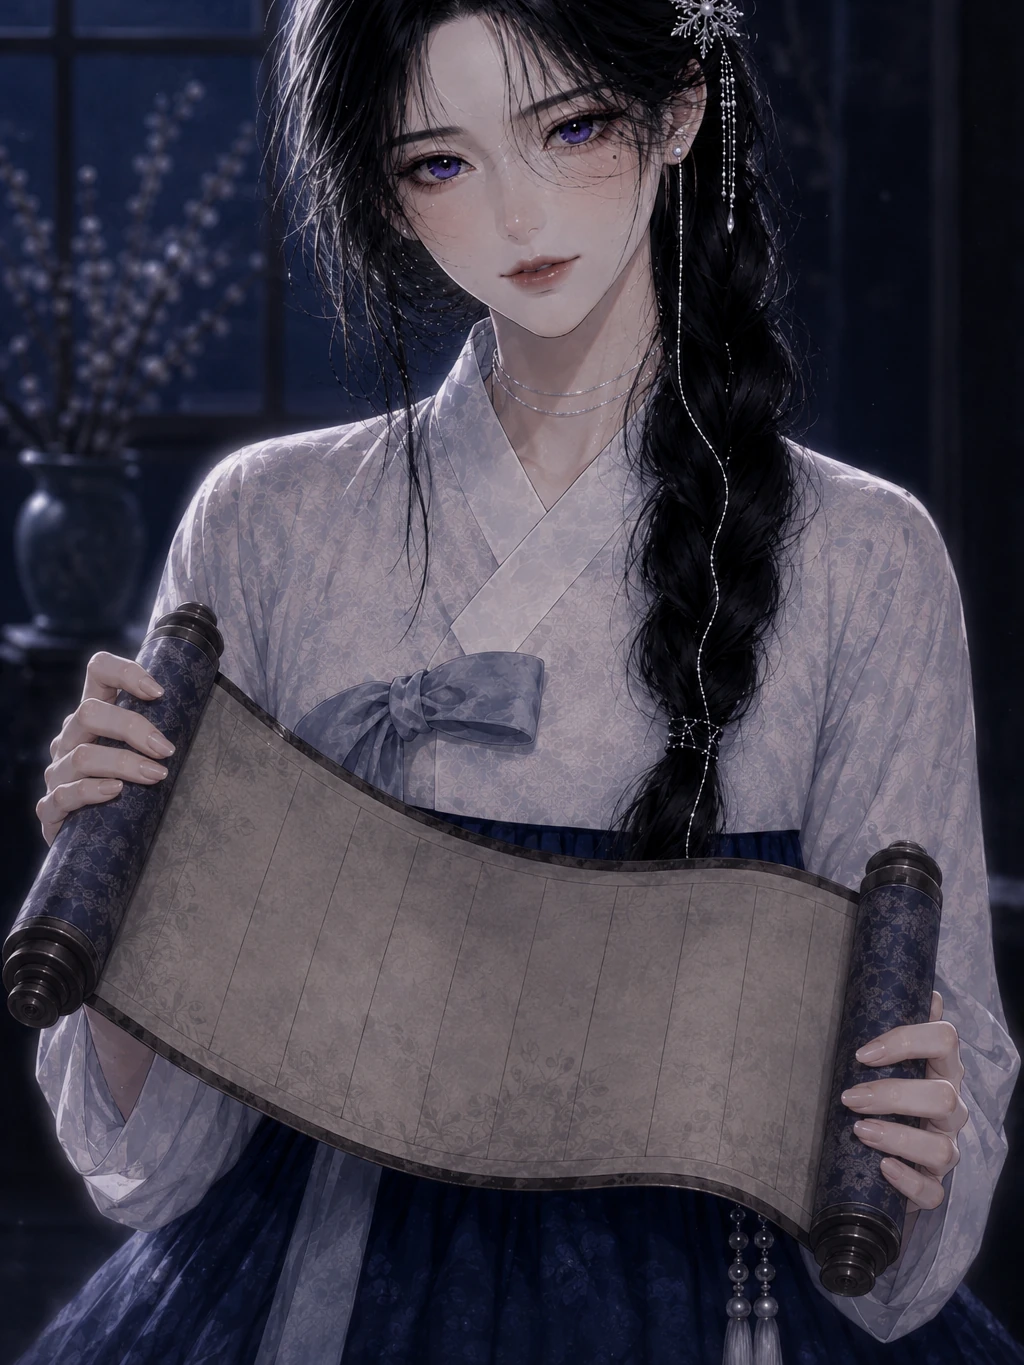
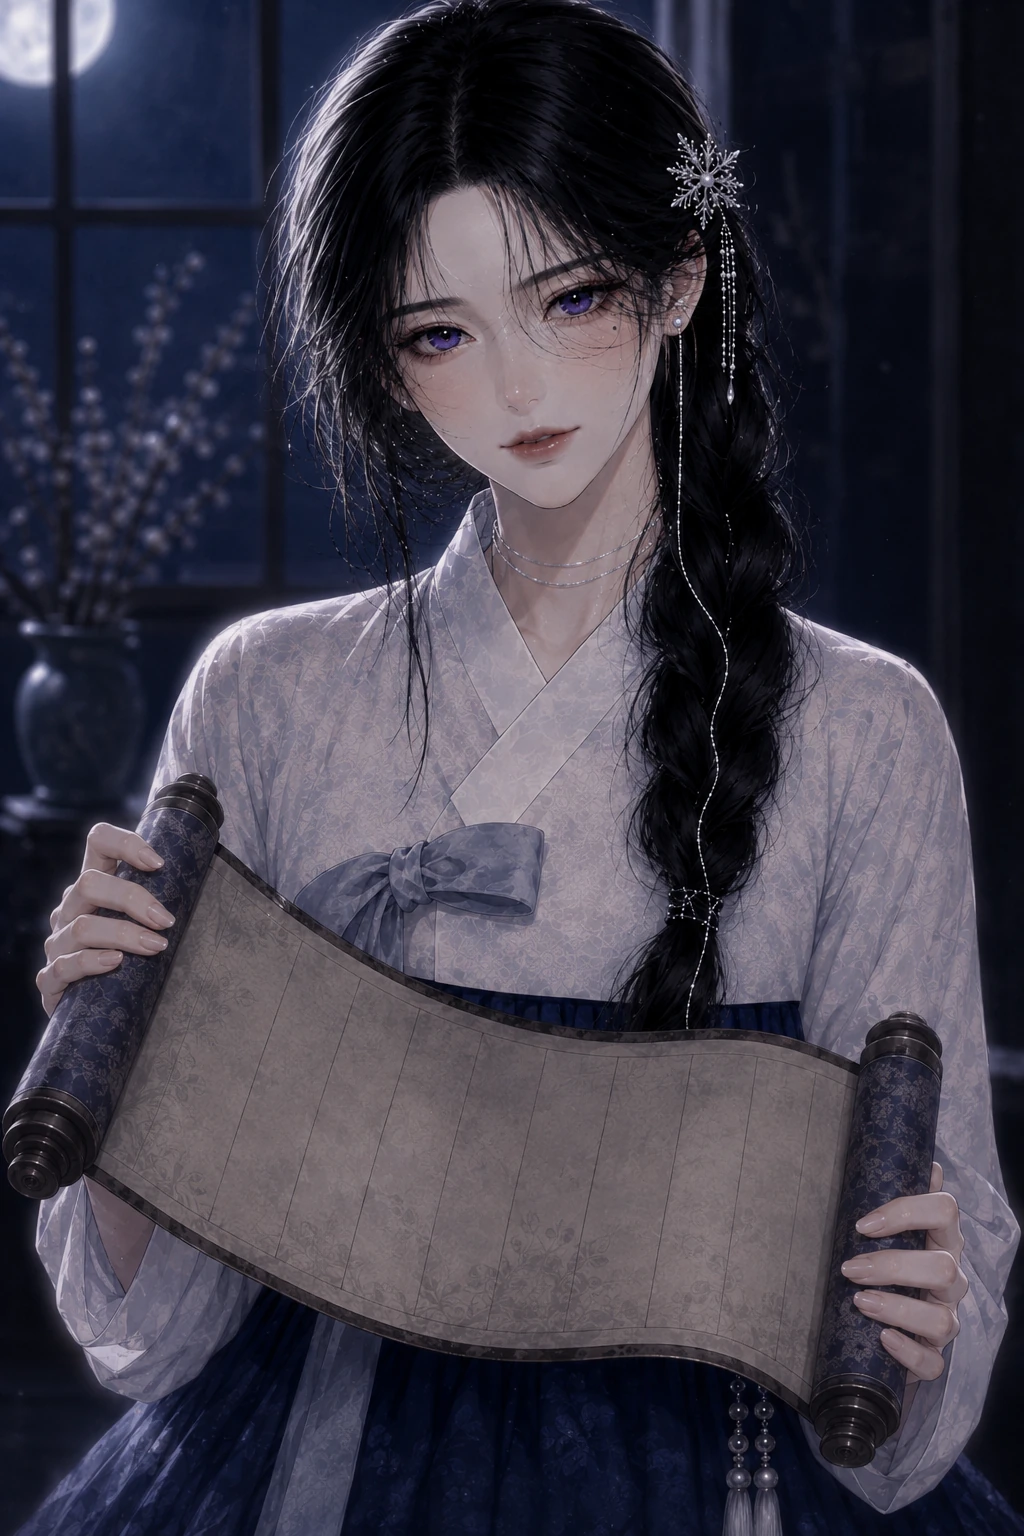
컷을 액자에 가둬 작게 보여주던 것 — 원본 그대로 화면에 꽉 채운다
형님 지적 넷: ①말풍선 꼬리가 안 맞고 컷이 작다 ②③전체 사진을 보여줘야 몰입된다
④미니캐릭터가 말하는 느낌이 안 난다.

원인 하나였다 — 컷을 「본문 속 삽화 액자」로 다루고 있었다.
폭 84~86% 에 3:2 크롭이라 원본(2:3)의 10~54% 구간만 보였다. 인물도 연기도 잘려 나가고,
말풍선은 앉을 자리가 없어 컷 밖에 걸쳐 캡션처럼 읽혔다.

- 인물 컷 8자리를 **원본 2:3 그대로 풀블리드**로. 자산이 전부 1024×1536 이라 크롭 0이다.
  321×401 → 444×666 (3배). 풍경 컷(w1 은하수·w6 달력낱장)만 와이드 유지
- N1·N2 는 3:4 로 구워 뒀던 걸 원본으로 되돌림
- 말풍선 6자리 전면 재실측(새 프레임에선 예전 좌표가 전부 무효) + **꼬리를 컷별 명시**
  「x>40이면 왼쪽」 휴리스틱은 형님 첫 캡처가 바로 반례였다
- 페이드 52→8. 풀블리드에선 14% 만 돼도 치마 아랫단이 하얗게 날아간다

④는 청월당 실물을 다시 열어 보고 고쳤다 — 저쪽은 SD 를 세워만 두지 않고
**캐릭터에서 말풍선이 나오는 한 덩어리**로 그린다(SD 가 지시봉으로 종이를 가리키며 말한다).
우리는 아래 꼬리밖에 없어 SD 를 옆에 세우면 꼬리가 SD 를 비켜 갔다 →
`Bubble tail="l"` 옆 꼬리를 만들어 SD 얼굴 높이에 맞추고 SD 를 92×120 으로 키웠다.

페이지 30,078 → 32,097px (컷이 커진 만큼). 자리표는 에셋 시트에 개정 기록.

diff --git a/src/components/saju/JiknyeoInterlude.tsx b/src/components/saju/JiknyeoInterlude.tsx
@@ -49,9 +49,9 @@ function Band({
   children,
   sd = "sdSmile",
   cut,
-  cutRatio = "3 / 2",
-  cutPos = "center 18%",
-  cutFade = 52,
+  cutRatio = "2 / 3",
+  cutPos = "center",
+  cutFade = 8,
   say,
   saySize = "lg",
   sfx,
@@ -62,20 +62,21 @@ function Band({
   sd?: "sdSmile" | "sdThink";
   /** 반신 컷 id(j2·w2·w3…). 주면 **컷이 주인공**인 청월당 문법으로 렌더한다 */
   cut?: string;
-  /** 컷 액자 비율. 기본 3:2 는 원본(2:3)의 **10~54% 구간만** 보여준다 —
-   *  연기가 가슴 아래(손·소품)에서 일어나는 컷은 잘려 나가므로 세로로 키운다. */
+  /** 컷 액자 비율. 기본은 **원본 그대로(2:3)** — 자르지 않는다.
+   *  예전 기본값 3:2 는 원본의 10~54% 구간만 보여 줘서 연기(손·소품)가 통째로 잘렸고,
+   *  폭도 86% 라 컷이 작았다. 형님 지시(2026-08-28): 「작게 보여주지 말고 화면에 꽉 차게」. */
   cutRatio?: string;
   /** 크롭 기준점. 기본 18% 는 얼굴을 가운데 두는 값이다 */
   cutPos?: string;
-  /** 아래쪽 페이드 높이(%). 액자를 지우려고 넣은 건데, 연기가 아래에서 일어나는 컷에서는
-   *  기본 52% 가 **손과 소품을 통째로 지워 버린다**(N2 은사 실측). 그런 컷은 28 안팎으로. */
+  /** 아래쪽 페이드 높이(%). 컷을 종이 바탕에 녹이는 장치인데 크게 주면 **연기를 지운다** —
+   *  52% 였을 때 w7 달력 종이가 하얗게 날아가고 N2 은사가 사라졌다. 기본 14. */
   cutFade?: number;
   /** 말풍선 자리 — **컷 폭·높이 기준 %**(x=왼쪽, y=위쪽). 티저의 SAY_BOX 와 같은 좌표계다.
    *  모서리 이름(left/right)으로 고르면 컷마다 인물이 다른 자리에 서 있어서 반드시
    *  얼굴이나 연기 위에 떨어진다 — w2 는 오른쪽 절반이 빈 밤하늘인데 말풍선이 인물 위에
    *  얹혀 있었고, w7 은 말풍선이 달력(연기 그 자체)을 덮고 있었다(2026-08-28 격자 실측).
    *  값의 근거는 호출부에 컷별로 적는다. 자는 `python 직녀/tools/say-grid.py`. */
-  say?: { x: number; y: number };
+  say?: { x: number; y: number; tail?: "bl" | "br" };
   /** 밴드 컷(3:2)은 높이가 짧아 lg(207px)면 컷보다 커진다 — 그런 자리는 md 로 */
   saySize?: "lg" | "md";
   /** 손글씨 방백 — 원본은 그림에 구워 넣지만 우리는 코드로 얹는다(8/23 규격) */
@@ -92,12 +93,11 @@ function Band({
         <div style={{ position: "relative", paddingBottom: say ? 26 : 58 }}>
           {/* 컷 상자 — 좌표의 기준. 액자(overflow hidden)는 한 겹 안쪽이고,
               말풍선은 이 상자 위에 얹혀서 필요하면 밖으로 삐져나간다 */}
-          <div style={{ position: "relative", width: "86%", marginLeft: "auto" }}>
+          <div style={{ position: "relative", margin: "0 -12px" }}>
           <div
             style={{
               position: "relative",
               overflow: "hidden",
-              borderRadius: 12,
               background: "#EFE9DC",
             }}
           >
@@ -133,7 +133,7 @@ function Band({
           {/* 말풍선 — 좌표를 주면 컷 기준 %로 앉고, 없으면 예전대로 왼쪽 아래에 걸친다 */}
           {say ? (
             <div style={{ position: "absolute", left: `${say.x}%`, top: `${say.y}%`, zIndex: 2 }}>
-              <Bubble lines={lines} size={saySize} tail={say.x > 40 ? "bl" : "br"} />
+              <Bubble lines={lines} size={saySize} tail={say.tail ?? (say.x > 40 ? "bl" : "br")} />
             </div>
           ) : (
             <div style={{ position: "absolute", left: 12, bottom: 18, zIndex: 2 }}>
@@ -187,8 +187,10 @@ export function Bubble({
   lines: string[];
   /** lg = 실측값(228) · md = 카드 묶음용 축소판 */
   size?: "lg" | "md";
-  /** 꼬리 방향 — bl(왼쪽 아래) / br(오른쪽 아래) / 없음 */
-  tail?: "bl" | "br" | "none";
+  /** 꼬리 방향 — bl(왼쪽 아래) / br(오른쪽 아래) / **l(왼쪽 옆)** / 없음.
+   *  l 은 캐릭터가 말풍선 **옆**에 서는 배치용이다. 아래 꼬리만 있던 시절엔
+   *  SD 를 옆에 세우면 꼬리가 SD 를 비켜 가서 둘이 남남으로 보였다(형님 지적 2026-08-28). */
+  tail?: "bl" | "br" | "l" | "none";
 }) {
   // 실물 폭비 51% 를 화면 폭과 무관하게 지킨다. 448 에서는 228/190 그대로, 360 폰에서는 함께 줄어
   // 글줄이 원을 뚫지 않는다(nowrap 이라 폭이 모자라면 글자가 삐져나온다).
@@ -229,7 +231,19 @@ export function Bubble({
           </span>
         ))}
       </div>
-      {tail !== "none" && (
+      {tail === "l" ? (
+        // 옆 꼬리 — 왼쪽 가운데에서 왼쪽으로 뻗는다. 바로 옆에 선 캐릭터의 얼굴을 가리킨다
+        <svg
+          width="26"
+          height="30"
+          viewBox="0 0 26 30"
+          aria-hidden
+          style={{ position: "absolute", left: -13, top: "44%" }}
+        >
+          <path d="M24 3C12 8 5 15 2 25c1-9 5-18 11-24z" fill="#FFFFFF" stroke="#1B1729" strokeWidth="2" strokeLinejoin="round" />
+          <path d="M23 5C14 9 8 15 5 23" stroke="#FFFFFF" strokeWidth="3" />
+        </svg>
+      ) : tail !== "none" ? (
         // 꼬리는 원과 **한 덩어리**로 보여야 한다 — 흰 삼각을 원에 겹쳐 이음매를 지운다(8/23 규격)
         <svg
           width="30"
@@ -246,7 +260,7 @@ export function Bubble({
           <path d="M27 2C22 14 12 21 2 24c9-1 18-5 25-11z" fill="#FFFFFF" stroke="#1B1729" strokeWidth="2" strokeLinejoin="round" />
           <path d="M25 3C21 12 13 18 5 22" stroke="#FFFFFF" strokeWidth="3" />
         </svg>
-      )}
+      ) : null}
     </div>
   );
 }
@@ -308,10 +322,9 @@ export function MonthCards({ rows }: { rows: InyeonRow[] }) {
       sfx="콕—"
       // 달력 x13~52 · 가리키는 손가락 x40~48 y82~95 를 피해 오른쪽으로. 예전 좌하단은
       // 달력(이 컷의 연기 그 자체)을 통째로 덮고 있었다
-      say={{ x: 47, y: 62 }}
-      saySize="md"
-      // 달력이 y52~95 라 기본 페이드(52%)가 종이를 통째로 하얗게 날려 버렸다(실측)
-      cutFade={18}
+      // 원본 2:3 풀 프레임 실측 — 달력 x8~50 y33~63 · 가리키는 손가락 x38~48 y47~58 ·
+      // 얼굴 x38~58 y10~32. 오른쪽 아래(창·배경)가 유일하게 다 비어 있다
+      say={{ x: 48, y: 66, tail: "bl" }}
     >
       {rows.slice(0, 3).map((r) => (
         <RowCard
@@ -340,10 +353,9 @@ export function ShakyCards({ rows }: { rows: InyeonRow[] }) {
       cut="w2"
       // 인물은 왼쪽(x18~50)뿐이고 오른쪽 절반이 빈 밤하늘 — 여기만 말풍선이 컷 안에 다 들어간다.
       // 예전 좌하단 고정값은 인물 얼굴 위에 얹혀 있었다
-      say={{ x: 48, y: 12 }}
-      saySize="md"
-      // 인물이 아래쪽(y42~100)이라 기본 페이드가 얼굴·어깨를 씻는다
-      cutFade={20}
+      // 인물 x28~62 y28~100(측면). 인물이 **올려다보는 오른쪽 위** 밤하늘에 앉힌다 —
+      // 시선이 말풍선으로 이어져 대사가 그 인물 것으로 읽힌다
+      say={{ x: 46, y: 4, tail: "bl" }}
     >
       {rows.slice(0, 2).map((r) => (
         <RowCard
@@ -385,13 +397,9 @@ export function SignalCards({ inyeon }: { inyeon: InyeonFacts }) {
       cut="N2"
       // 연기가 가슴 아래(손바닥의 은사 세 가닥)에서 일어난다. 기본 3:2 는 원본의 10~54%
       // 구간만 보여 줘서 손이 통째로 잘려 나갔다(실측). 4:5 로 키워야 대사와 그림이 같은 말을 한다
-      // 은사가 얇아 폰 폭에서 죽는다 → **소재를 3:4 로 구워 뒀다**(CSS 크롭 없음).
-      // 페이드도 12 로 낮춘다 — 손이 프레임 아래쪽에 있어 기본값이면 씻긴다
-      cutRatio="3 / 4"
-      cutPos="center"
-      cutFade={12}
-      // 은사를 든 손이 화면 왼쪽(x8~45 y58~88)이라 오른쪽으로 비킨다
-      say={{ x: 44, y: 56 }}
+      // 은사를 든 손이 화면 왼쪽이라 오른쪽으로 비킨다
+      // 은사 든 손 x20~42 y48~92 · 얼굴 x38~62 y10~40. 오른쪽(x76~100)이 배경
+      say={{ x: 48, y: 60, tail: "bl" }}
     >
       {list.map((s, i) => (
         <RowCard
@@ -580,25 +588,24 @@ export function ChapterSay({ title, who }: { title: string; who: string }) {
     // 캐릭터와 말풍선이 **붙어 있어야** 대사로 읽힌다. 예전엔 58px SD 옆에 190px 말풍선이
     // 나란히 서 있고 꼬리는 SD 가 아니라 그 오른쪽 허공을 가리켰다 — 둘이 남남으로 보였다.
     // 말풍선을 오른쪽 위로 올리고 SD 를 그 꼬리 밑에 겹쳐 세운다(웹툰 기본 배치).
-    // 꼬리 끝 좌표를 계산해서 그 밑에 SD 를 세운다(눈대중 금지).
-    //   말풍선 md = 190×173 · 꼬리 svg 는 왼쪽 18% 지점·아래로 14px · 끝점은 svg 안 (2,24)
-    //   → 꼬리 끝 = (left + 0.18*190 + 2, 173 - 14 + 24) = (left+36, 183)
-    //   left=20 이면 끝점 (56,183). SD 를 x6~80 · y110~206 에 세우면 그 점이 SD 몸 위에 떨어진다.
-    <div style={{ position: "relative", marginBottom: 16, height: 206 }}>
-      <div style={{ position: "absolute", left: 20, top: 0 }}>
-        <Bubble lines={lines} size="md" tail="bl" />
-      </div>
+    // 청월당은 SD 를 세워만 두지 않는다 — **캐릭터에서 말풍선이 나오는 한 덩어리**로 그린다.
+    // 우리는 아래 꼬리밖에 없어서 SD 를 옆에 세우면 꼬리가 SD 를 비켜 갔다(형님 지적).
+    // 옆 꼬리(tail="l")를 만들어 **말풍선 왼쪽 44% 지점**이 SD 얼굴 높이에 오게 맞춘다.
+    //   말풍선 md 173px · 꼬리 y = 173*0.44 ≈ 76 → SD 얼굴(위에서 1/4 지점)이 y76 에 오도록
+    //   SD 를 top 44 에 세운다(96px 중 얼굴이 y44~76).
+    <div style={{ position: "relative", marginBottom: 18, height: 176 }}>
       {face ? (
         // eslint-disable-next-line @next/next/no-img-element
         <img
           src={face}
           alt=""
           draggable={false}
-          // 꼬리(말풍선 왼쪽 18% 지점)가 머리 위로 떨어지도록 SD 를 그 아래에 세운다.
-          // 74×96 — 58px 은 190px 말풍선 옆에서 부속품처럼 보였다
-          style={{ position: "absolute", left: 6, top: 110, width: 74, height: 96, objectFit: "contain", objectPosition: "bottom", zIndex: 2 }}
+          style={{ position: "absolute", left: 0, top: 44, width: 92, height: 120, objectFit: "contain", objectPosition: "bottom", zIndex: 2 }}
         />
       ) : null}
+      <div style={{ position: "absolute", left: 100, top: 0 }}>
+        <Bubble lines={lines} size="md" tail="l" />
+      </div>
     </div>
   );
 }
@@ -608,10 +615,10 @@ export function ChapterSay({ title, who }: { title: string; who: string }) {
 export function CutSay({
   id,
   lines,
-  ratio = "4 / 5",
-  pos = "center 12%",
-  fade = 26,
-  say = { x: 0, y: 74 },
+  ratio = "2 / 3",
+  pos = "center",
+  fade = 8,
+  say = { x: 0, y: 74, tail: "br" },
 }: {
   id: string;
   lines: string[];
@@ -619,23 +626,16 @@ export function CutSay({
   pos?: string;
   fade?: number;
   /** 말풍선 자리 — 컷 폭·높이 기준 %. 자는 `python 직녀/tools/say-grid.py` */
-  say?: { x: number; y: number };
+  say?: { x: number; y: number; tail?: "bl" | "br" };
 }) {
   const src = assetSrc(`/products/jiknyeo/${id}.webp`) ?? assetSrc(`/products/jiknyeo/${id}.png`);
   if (!src) return null;
   return (
     // 말풍선이 컷 아래로 삐져나오는 만큼 자리를 비운다 — 안 비우면 다음 블록(얼굴 카드) 위를 덮는다.
     // 컷 높이 470 · say.y 74% · 말풍선 207px → 85px 초과. 96 이면 겹침 0.
-    <div style={{ position: "relative", marginTop: 18, paddingBottom: 96 }}>
-      <div style={{ position: "relative", width: "84%", marginLeft: "auto" }}>
-      <div
-        style={{
-          position: "relative",
-          overflow: "hidden",
-          borderRadius: 14,
-          background: "#EFE9DC",
-        }}
-      >
+    <div style={{ position: "relative", marginTop: 18, paddingBottom: 20 }}>
+      <div style={{ position: "relative", margin: "0 -12px" }}>
+      <div style={{ position: "relative", overflow: "hidden", background: "#EFE9DC" }}>
         {/* eslint-disable-next-line @next/next/no-img-element */}
         <img
           src={src}
@@ -650,7 +650,7 @@ export function CutSay({
         />
       </div>
       <div style={{ position: "absolute", left: `${say.x}%`, top: `${say.y}%`, zIndex: 2 }}>
-        <Bubble lines={lines} size="lg" tail={say.x > 40 ? "bl" : "br"} />
+        <Bubble lines={lines} size="lg" tail={say.tail ?? (say.x > 40 ? "bl" : "br")} />
       </div>
       </div>
     </div>
@@ -707,33 +707,26 @@ export function Prologue({
           );
         }
         return (
-          <div style={{ position: "relative", paddingBottom: 30 }}>
-            <div style={{ position: "relative", width: "84%", marginLeft: "auto" }}>
-            <div
-              style={{
-                position: "relative",
-                overflow: "hidden",
-                borderRadius: 14,
-                background: "#EFE9DC",
-              }}
-            >
+          <div style={{ position: "relative", paddingBottom: 22 }}>
+            <div style={{ position: "relative", margin: "0 -18px" }}>
+            <div style={{ position: "relative", overflow: "hidden", background: "#EFE9DC" }}>
               {/* eslint-disable-next-line @next/next/no-img-element */}
               <img
                 src={hero}
                 alt=""
                 draggable={false}
                 className="w-full select-none"
-                style={{ aspectRatio: "4 / 5", objectFit: "cover", objectPosition: "center 12%", display: "block" }}
+                style={{ aspectRatio: "2 / 3", objectFit: "cover", objectPosition: "center", display: "block" }}
               />
               <div
                 className="pointer-events-none absolute inset-x-0 bottom-0"
-                style={{ height: "42%", background: "linear-gradient(180deg, rgba(250,247,240,0), rgba(250,247,240,.92) 76%, #faf7f0)" }}
+                style={{ height: "8%", background: "linear-gradient(180deg, rgba(250,247,240,0), rgba(250,247,240,.92) 76%, #faf7f0)" }}
               />
             </div>
             {/* 격자 실측(say-grid): 얼굴 x25~60 y8~45 · 손 x25~45 y48~78 · 땋은머리 x62~80.
                 손 반대쪽(오른쪽) 아래에 걸친다 — 예전엔 컷 **밖** 좌하단이라 대사가 아니라
                 그림 밑 캡션으로 읽혔다 */}
-            <div style={{ position: "absolute", left: "44%", top: "58%", zIndex: 2 }}>
+            <div style={{ position: "absolute", left: "48%", top: "56%", zIndex: 2 }}>
               <Bubble lines={[`${name}님, 왜`, "이제 오셨어요!"]} size="lg" tail="bl" />
             </div>
             </div>
@@ -756,34 +749,25 @@ export function Prologue({
         const open = assetSrc("/products/jiknyeo/N1.webp") ?? assetSrc("/products/jiknyeo/N1.png");
         if (!open) return null;
         return (
-          <div style={{ position: "relative", marginTop: 16, paddingBottom: 30 }}>
-            <div style={{ position: "relative", width: "84%", marginRight: "auto" }}>
-            <div
-              style={{
-                position: "relative",
-                overflow: "hidden",
-                borderRadius: 14,
-                background: "#EFE9DC",
-              }}
-            >
+          <div style={{ position: "relative", marginTop: 16, paddingBottom: 22 }}>
+            <div style={{ position: "relative", margin: "0 -18px" }}>
+            <div style={{ position: "relative", overflow: "hidden", background: "#EFE9DC" }}>
               {/* eslint-disable-next-line @next/next/no-img-element */}
               <img
                 src={open}
                 alt=""
                 draggable={false}
                 className="w-full select-none"
-                // 두루마리가 아래쪽에 있어 **소재를 3:4 로 구워 뒀다**. 페이드도 얕게 —
-                // 기본값(42%)이면 펼친 손과 종이가 통째로 씻긴다
-                style={{ aspectRatio: "3 / 4", objectFit: "cover", objectPosition: "center", display: "block" }}
+                style={{ aspectRatio: "2 / 3", objectFit: "cover", objectPosition: "center", display: "block" }}
               />
               <div
                 className="pointer-events-none absolute inset-x-0 bottom-0"
-                style={{ height: "14%", background: "linear-gradient(180deg, rgba(250,247,240,0), rgba(250,247,240,.92) 76%, #faf7f0)" }}
+                style={{ height: "8%", background: "linear-gradient(180deg, rgba(250,247,240,0), rgba(250,247,240,.92) 76%, #faf7f0)" }}
               />
             </div>
             {/* 격자 실측: 두루마리 x5~92 y45~92 가 아래 절반을 다 먹어 컷 안에 자리가 없다.
                 두루마리 **아래 모서리만** 스치도록 걸친다 — 펼친 손과 종이는 살린다 */}
-            <div style={{ position: "absolute", left: "46%", top: "84%", zIndex: 2 }}>
+            <div style={{ position: "absolute", left: "49%", top: "72%", zIndex: 2 }}>
               <Bubble lines={["오늘 밤 것부터,", "하나씩 펼쳐", "볼게요."]} size="lg" tail="bl" />
             </div>
             </div>

diff --git a/src/components/saju/JiknyeoResult.tsx b/src/components/saju/JiknyeoResult.tsx
@@ -478,7 +478,7 @@ export function JiknyeoResult({
 
           {/* 빈 액자를 들어 보이는 컷 → 바로 다음이 얼굴 카드다. 「들어갈 자리」를 먼저 보여 주고
               얼굴을 여는 순서라, 결제의 회수 지점이 한 박자 늦춰지면서 더 세게 열린다 */}
-          <CutSay id="N3" lines={["이 사람이에요.", "잘 봐 두세요."]} pos="center 30%" />
+          <CutSay id="N3" lines={["이 사람이에요.", "잘 봐 두세요."]} />
 
           {/* 표보다 **얼굴이 먼저** 온다 — 티저가 흐리게 예고한 게 얼굴이라, 결제의 회수도 얼굴이어야 한다 */}
           {(() => {
@@ -582,8 +582,9 @@ export function JiknyeoResult({
           : /걸어온 길/.test(t) ? <CutInterlude id="w6" say="몰라서 지나갔을 뿐이에요." />
           // 「판이 바뀌는 해」에는 인물이 아니라 하늘이 맞다 — 은하수 한 장으로 스케일을 벌린다
           : /크게 바뀌는 해/.test(t) ? <CutInterlude id="w1" say="당신에게도 그런 날이 와요. 올해도, 몇 번." />
-          // 확답 장 뒤에 확신하는 얼굴. 말과 표정이 같은 자리에서 만나야 답이 무겁게 읽힌다
-          : /고민|물음/.test(t) ? <CutInterlude id="w3" say="제가 아는 건 여기까지예요. 그리고 이건 확실해요." />
+          // 확답 장 뒤에 확신하는 얼굴. 말과 표정이 같은 자리에서 만나야 답이 무겁게 읽힌다.
+          // 인물 컷은 **원본 2:3 그대로** — 3:2 로 자르면 얼굴만 남고 몰입이 안 산다(형님 8/28)
+          : /고민|물음/.test(t) ? <CutInterlude id="w3" say="제가 아는 건 여기까지예요. 그리고 이건 확실해요." ratio="2 / 3" pos="center" />
           : null;
         return (
           <Fragment key={i}>
@@ -603,7 +604,7 @@ export function JiknyeoResult({
 
       {/* 배웅 — 편지 바로 앞. 돌아보며 눈을 맞추는 컷이라 「저는 여기 있을게요」와 붙는다.
           마지막 10초가 후기·공유 직전 감정이라 여기에 사람 얼굴이 있어야 한다 */}
-      <CutInterlude id="w5" say="여기까지 같이 왔네요." />
+      <CutInterlude id="w5" say="여기까지 같이 왔네요." ratio="2 / 3" pos="center" />
 
       {/* 마치며 — 3사 공통 표준. 낙관(도장) 앞에 편지가 와야 순서가 맞다 */}
       <ClosingLetter who={who} nearest={top3[0] ?? null} />
